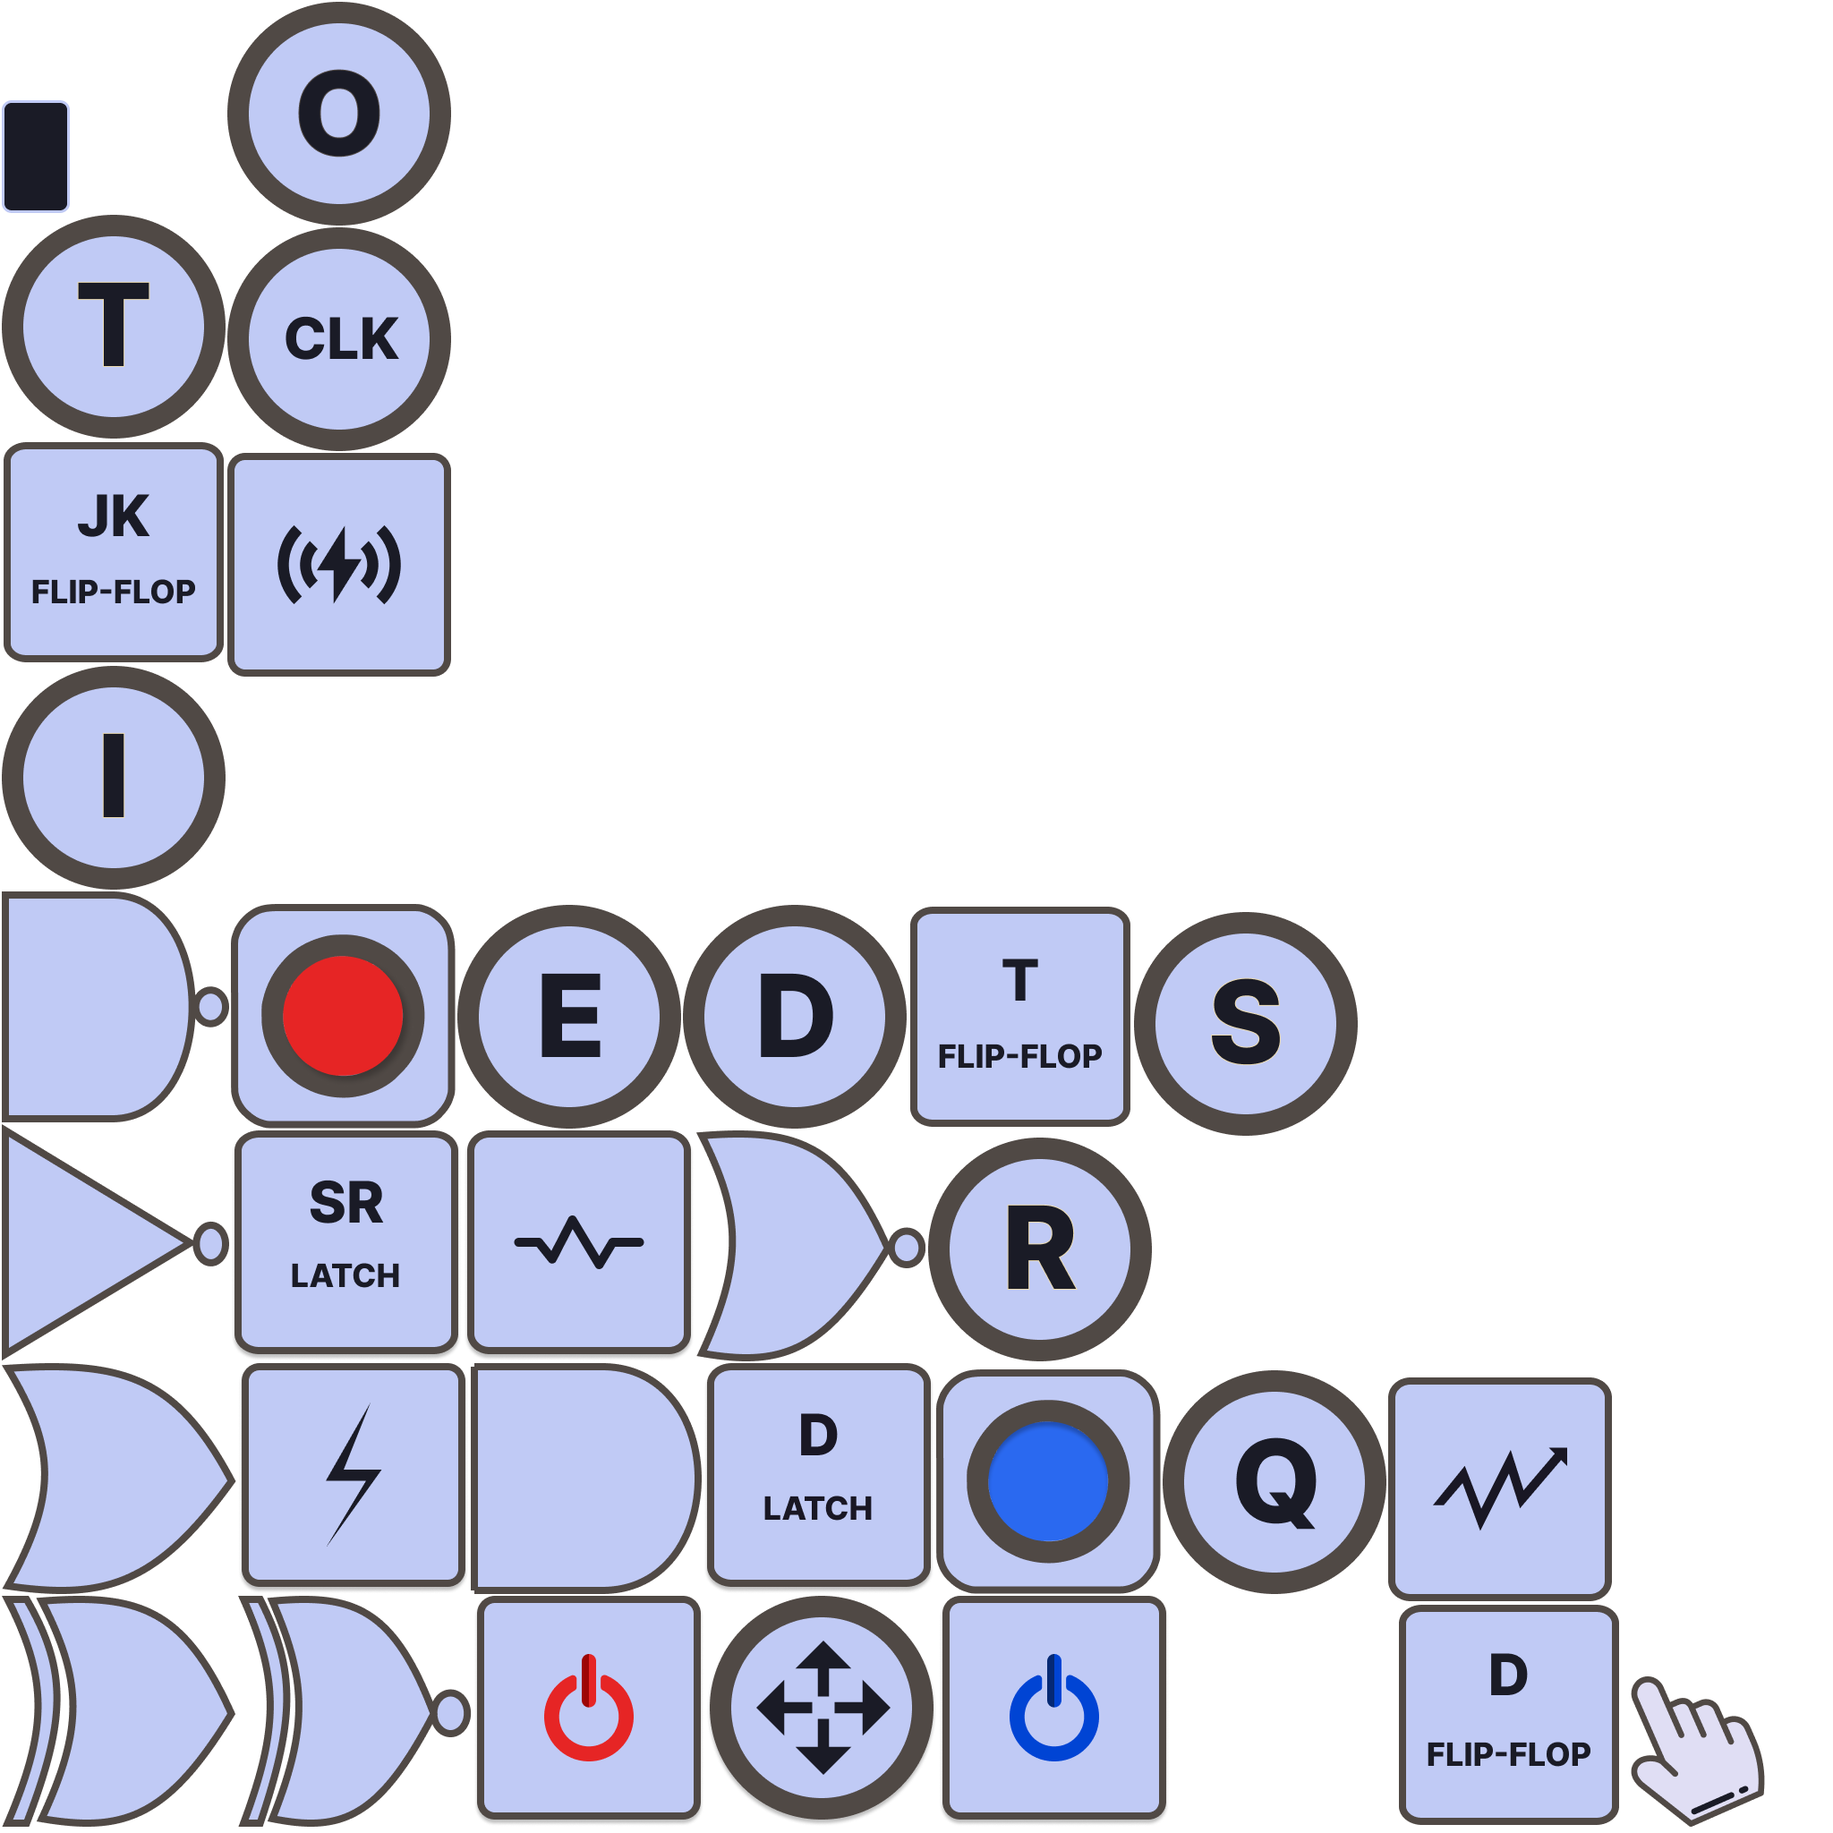
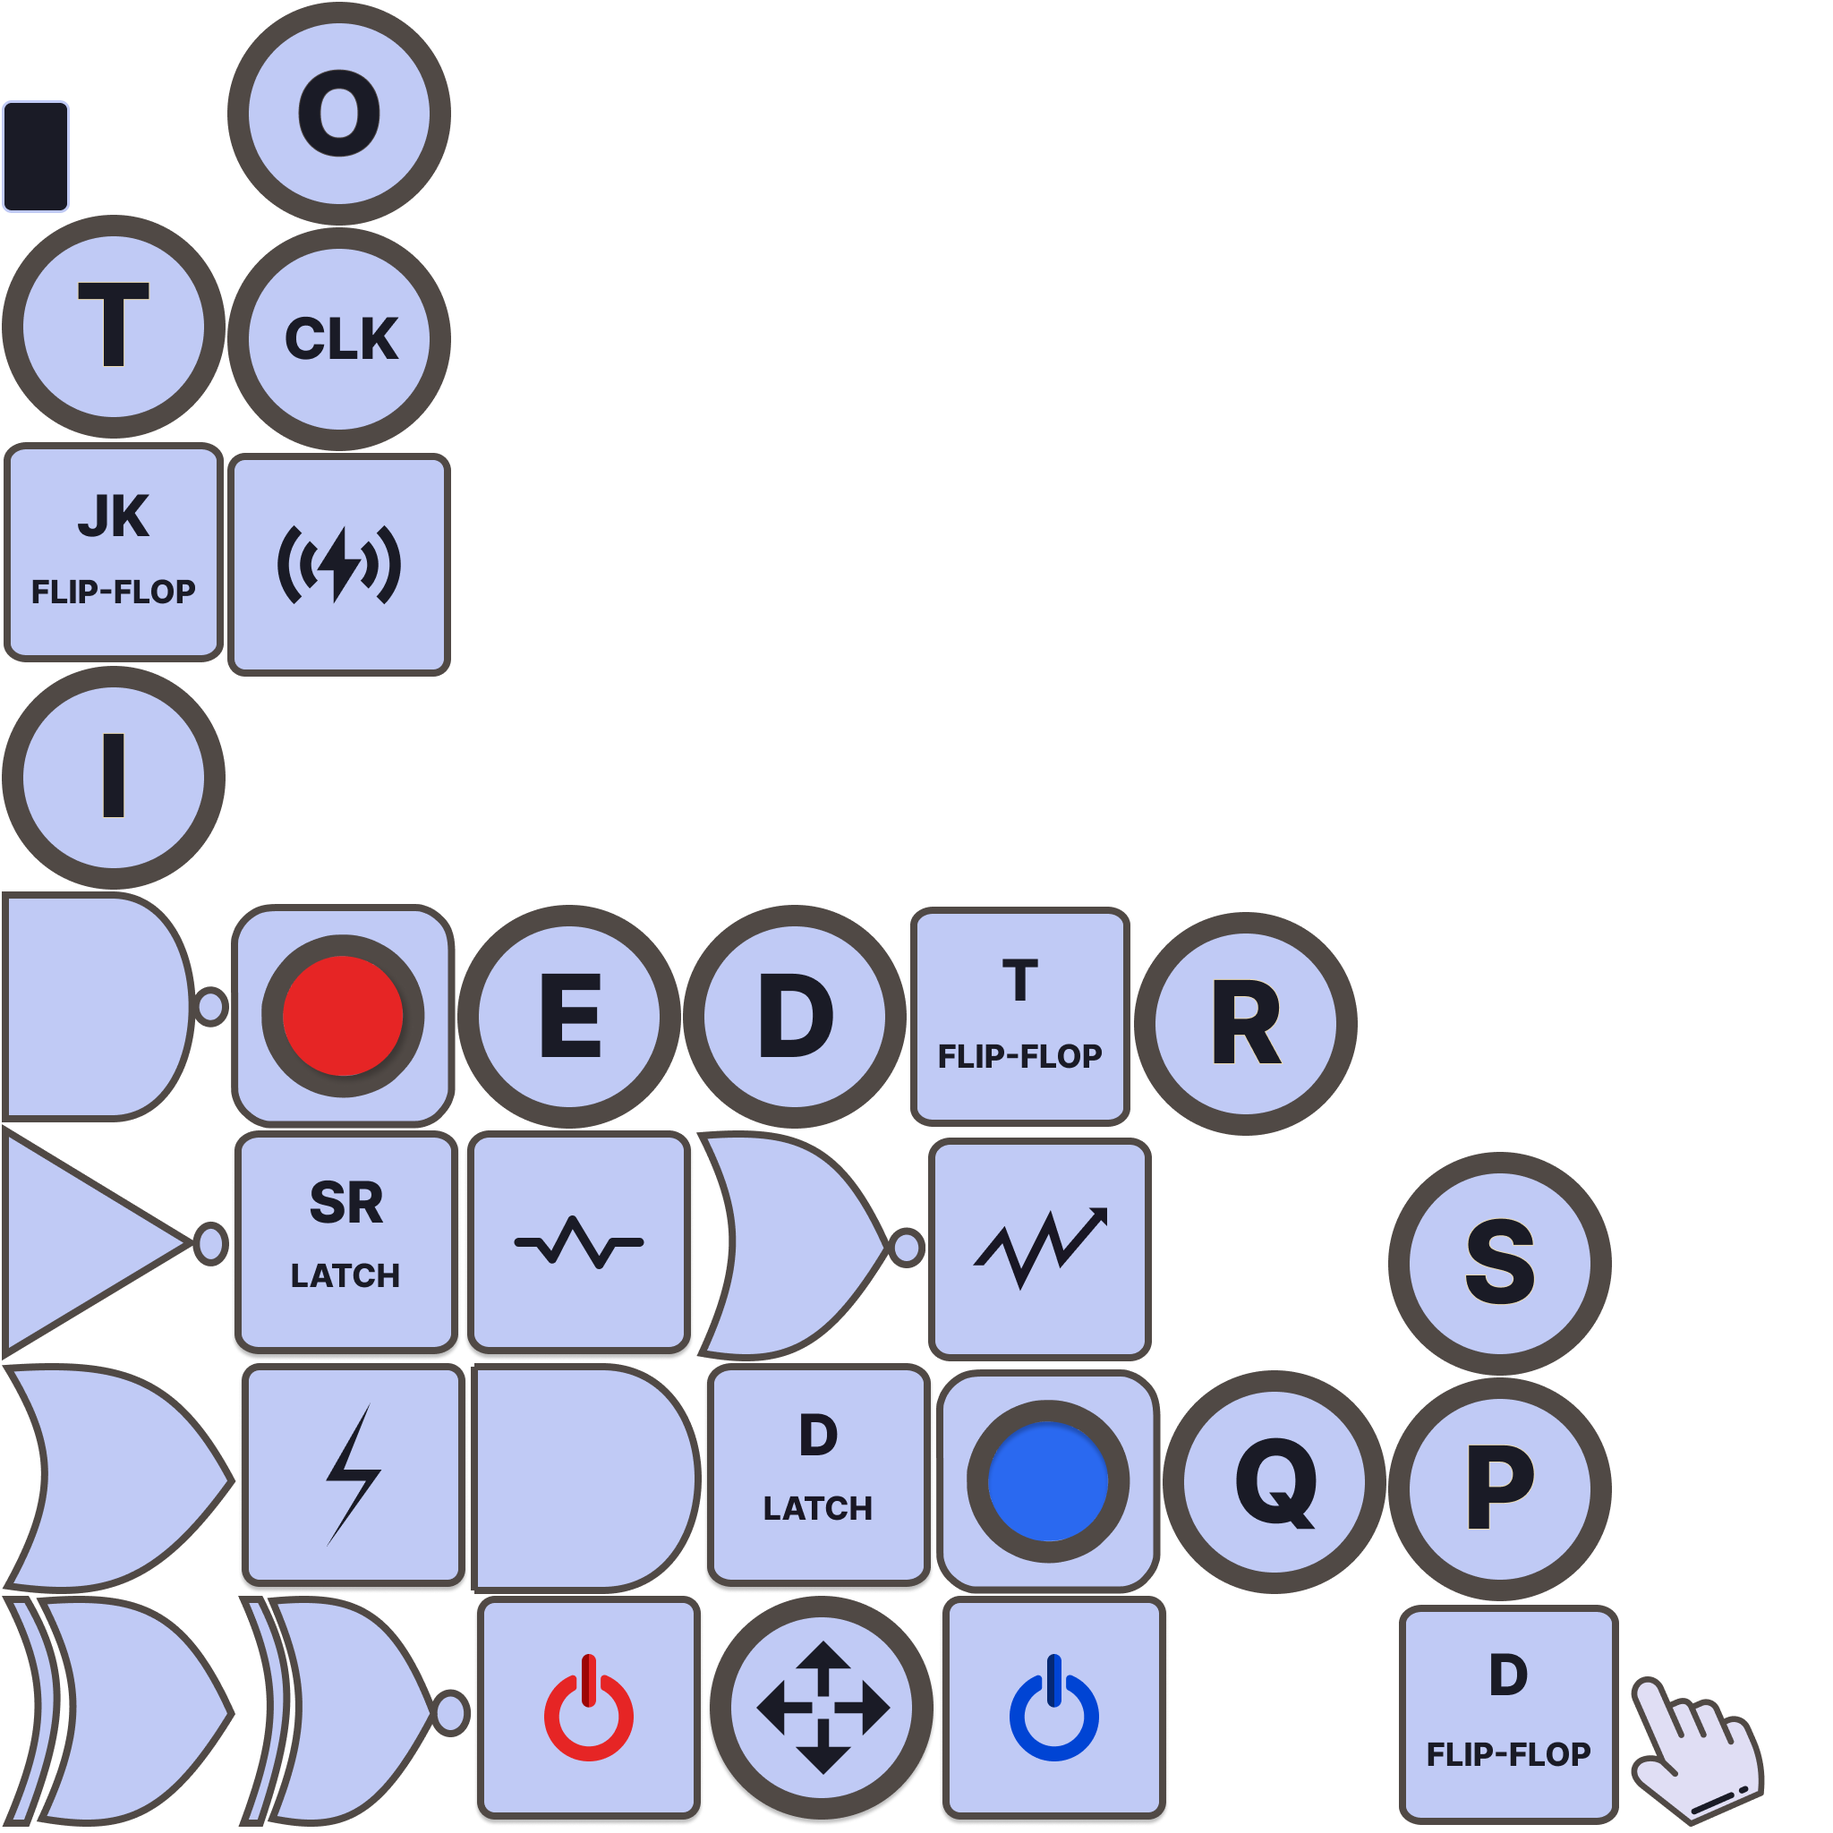
added point component

Changed region(s): [[0.75, 0.625, 0.9062, 0.875], [0.5, 0.5938, 0.6562, 0.75], [0.6562, 0.5312, 0.7188, 0.5938]]

diff --git a/android/src/main/java/org/engine/simulogic/android/circuits/components/other/CPoint.kt b/android/src/main/java/org/engine/simulogic/android/circuits/components/other/CPoint.kt
@@ -1,0 +1,198 @@
+package org.engine.simulogic.android.circuits.components.other
+
+import com.badlogic.gdx.graphics.g2d.Sprite
+import com.badlogic.gdx.graphics.g2d.TextureAtlas
+import org.engine.simulogic.android.circuits.theme.EnvironmentTheme
+import com.badlogic.gdx.math.Rectangle
+import org.engine.simulogic.android.circuits.components.CDefaults
+import org.engine.simulogic.android.circuits.components.CNode
+import org.engine.simulogic.android.circuits.components.CTypes
+import org.engine.simulogic.android.circuits.components.gates.CSignal
+import org.engine.simulogic.android.circuits.components.lines.CLine
+import org.engine.simulogic.android.scene.LayerEnums
+import org.engine.simulogic.android.scene.PlayGroundScene
+
+class CPoint(x:Float, y:Float, rotationDirection:Int, private val scene: PlayGroundScene) :CNode(){
+
+    private val lines = mutableListOf<CLine>()
+    constructor(x:Float, y:Float, scene: PlayGroundScene):this(x, y, ROTATE_RIGHT, scene)
+    init {
+
+        val textureAtlas = scene.assetManager.get("${EnvironmentTheme.name}.atlas", TextureAtlas::class.java)
+        val spriteRegion = textureAtlas.findRegion("POINT")
+        type = CTypes.NOT
+        this.rotationDirection = rotationDirection
+        sprite = Sprite(spriteRegion).apply {
+            setOrigin(x , y)
+            setSize(CDefaults.gateWidth, CDefaults.gateHeight)
+            setOriginCenter()
+            when(rotationDirection){
+                ROTATE_BOTTOM->{
+                    rotation = 270f
+                }
+                ROTATE_TOP->{
+                    rotation = 90f
+                }
+                ROTATE_LEFT->{
+                    rotation = 180f
+                }
+                ROTATE_RIGHT->{
+                    rotation = 0f
+                }
+            }
+            setPosition(x - CDefaults.gateWidth / 2f,y - CDefaults.gateHeight / 2f)
+        }
+
+        signals.add(CSignal(x + sprite.width * 0.8125f, y ,CTypes.SIGNAL_OUT,0, scene))
+        signals.add(CSignal(x - sprite.width * 0.8125f, y,CTypes.SIGNAL_IN, 1, scene))
+        signals.forEach {
+            attachChild(it)
+        }
+
+        scene.getLayerById(LayerEnums.GATE_LAYER.name).also { layer ->
+            layer.attachChild(this)
+        }
+
+        scene.getLayerById(LayerEnums.CONNECTION_LAYER.name).also { layer->
+            val lineWidth = 2f
+            //output line segment
+            getChildAt(0).getPosition()?.also { outputPosition ->
+                lines.add(CLine(outputPosition.x,outputPosition.y,getPosition().x,getPosition().y,lineWidth))
+            }
+            //input line segments
+            getChildAt(1).getPosition()?.also { outputPosition ->
+                lines.add(CLine(outputPosition.x,outputPosition.y,getPosition().x,outputPosition.y,lineWidth))
+            }
+            lines.forEach {
+                layer.attachChild(it)
+            }
+        }
+    }
+
+
+    override fun attachSelf() {
+        super.attachSelf()
+        scene.getLayerById(LayerEnums.CONNECTION_LAYER.name).also { layer ->
+            lines.forEach {
+                it.isRemoved = false
+                layer.attachChild(it)
+            }
+        }
+        scene.getLayerById(LayerEnums.GATE_LAYER.name).also { layer ->
+            signals.forEach {
+                it.isRemoved = false
+                layer.attachChild(it)
+            }
+            layer.attachChild(this)
+        }
+    }
+
+    override fun detachSelf() {
+        super.detachSelf()
+        lines.forEach { it.detachSelf() }
+        signals.forEach { it.detachSelf() }
+    }
+
+    override fun execute() {
+        val output = signals[0]
+        val inputA = signals[1]
+        output.value = inputA.value
+    }
+
+    override fun update() {
+        if(selected){
+            updateColor(CDefaults.GATE_SELECTED_COLOR)
+        }else{
+            updateColor(if(signals[0].value == SIGNAL_ACTIVE) CDefaults.SIGNAL_ACTIVE_COLOR else  CDefaults.GATE_UNSELECTED_COLOR)
+        }
+        when(rotationDirection){
+            ROTATE_RIGHT->{
+                signals[0].updatePosition(getPosition().x + sprite.width * 0.8125f, getPosition().y)
+                signals[1].updatePosition(getPosition().x - sprite.width * 0.8125f, getPosition().y)
+                getChildAt(0).getPosition()?.also { outputPosition ->
+                    lines[0].updatePosition(outputPosition.x,outputPosition.y,getPosition().x,getPosition().y)
+                }
+                getChildAt(1).getPosition()?.also { outputPosition ->
+                    lines[1].updatePosition(outputPosition.x,outputPosition.y,getPosition().x,outputPosition.y)
+                }
+            }
+
+            ROTATE_LEFT->{
+                signals[0].updatePosition(getPosition().x - sprite.width * 0.8125f, getPosition().y)
+                signals[1].updatePosition(getPosition().x + sprite.width * 0.8125f, getPosition().y)
+                getChildAt(0).getPosition()?.also { outputPosition ->
+                    lines[0].updatePosition(outputPosition.x,outputPosition.y,getPosition().x,getPosition().y)
+                }
+                getChildAt(1).getPosition()?.also { outputPosition ->
+                    lines[1].updatePosition(outputPosition.x,outputPosition.y,getPosition().x,outputPosition.y)
+                }
+            }
+
+            ROTATE_TOP->{
+                signals[0].updatePosition(getPosition().x , getPosition().y + sprite.width * 0.8125f)
+                signals[1].updatePosition(getPosition().x , getPosition().y - sprite.width * 0.8125f)
+                getChildAt(0).getPosition()?.also { outputPosition ->
+                    lines[0].updatePosition(outputPosition.x,outputPosition.y,getPosition().x,getPosition().y)
+                }
+                getChildAt(1).getPosition()?.also { outputPosition ->
+                    lines[1].updatePosition(outputPosition.x,outputPosition.y,outputPosition.x,getPosition().y)
+                }
+            }
+
+            ROTATE_BOTTOM->{
+                signals[0].updatePosition(getPosition().x , getPosition().y - sprite.width * 0.8125f)
+                signals[1].updatePosition(getPosition().x , getPosition().y + sprite.width * 0.8125f)
+                getChildAt(0).getPosition()?.also { outputPosition ->
+                    lines[0].updatePosition(outputPosition.x,outputPosition.y,getPosition().x,getPosition().y)
+                }
+                getChildAt(1).getPosition()?.also { outputPosition ->
+                    lines[1].updatePosition(outputPosition.x,outputPosition.y,outputPosition.x,getPosition().y)
+                }
+            }
+        }
+        data.forEach {
+            it.update()
+        }
+    }
+
+    override fun contains(entity: CNode): CNode? {
+        val parentCollides = super.contains(entity)
+        if(parentCollides != null){
+            return parentCollides
+        }
+        data.forEach {
+            if(it is CNode){
+                val childCollides = it.contains(entity)
+                if(childCollides != null){
+                    return childCollides
+                }
+            }
+        }
+        return null
+    }
+
+    override fun contains(rect: Rectangle): CNode? {
+        val parentCollides = super.contains(rect)
+        if(parentCollides != null){
+            return parentCollides
+        }
+        data.forEach {
+            if(it is CNode){
+                val childCollides = it.contains(rect)
+                if(childCollides != null){
+                    return childCollides
+                }
+            }
+        }
+        return null
+    }
+
+    override fun contains(x: Float, y: Float): CNode? {
+        return super.contains(x, y)
+    }
+
+    override fun clone():CNode {
+        return CPoint(getPosition().x,getPosition().y, rotationDirection, scene )
+    }
+
+}

diff --git a/android/src/main/java/org/engine/simulogic/android/circuits/logic/ComponentManager.kt b/android/src/main/java/org/engine/simulogic/android/circuits/logic/ComponentManager.kt
@@ -45,6 +45,7 @@ import org.engine.simulogic.android.circuits.logic.events.EventNorCommand
 import org.engine.simulogic.android.circuits.logic.events.EventNotCommand
 import org.engine.simulogic.android.circuits.logic.events.EventOrCommand
 import org.engine.simulogic.android.circuits.logic.events.EventPasteCommand
+import org.engine.simulogic.android.circuits.logic.events.EventPointCommand
 import org.engine.simulogic.android.circuits.logic.events.EventPowerCommand
 import org.engine.simulogic.android.circuits.logic.events.EventPulseButtonCommand
 import org.engine.simulogic.android.circuits.logic.events.EventRandomCommand
@@ -217,6 +218,13 @@ class ComponentManager(private val projectOptions: ProjectOptions,private val fo
         gestureListener.rectPointer.getPosition().also { position ->
             snapAlign.getSnapCoordinates(position).also { coordinates ->
                 eventBridge.insertCommand(EventJKFlipFlopCommand(Vector2(coordinates),connection, gestureListener.commandHistory, scene))
+            }
+        }
+    }
+    fun insertPoint() {
+        gestureListener.rectPointer.getPosition().also { position ->
+            snapAlign.getSnapCoordinates(position).also { coordinates ->
+                eventBridge.insertCommand(EventPointCommand(Vector2(coordinates),connection,gestureListener.commandHistory,scene))
             }
         }
     }

diff --git a/android/src/main/java/org/engine/simulogic/android/views/ComponentBottomSheet.kt b/android/src/main/java/org/engine/simulogic/android/views/ComponentBottomSheet.kt
@@ -41,6 +41,7 @@ class ComponentBottomSheet(private val listener: IComponentAdapterListener? = nu
          const val D_FLIP_FLOP_COMPONENT = "D-FLIP-FLOP"
          const val JK_FLIP_FLOP_COMPONENT = "JK-FLIP-FLOP"
          const val T_FLIP_FLOP_COMPONENT = "T-FLIP-FLOP"
+         const val POINT_COMPONENT = "POINT"
          const val LED_COMPONENT = "LED"
          const val POWER_ON_COMPONENT = "POWER ON"
          const val POWER_OFF_COMPONENT = "POWER OFF"
@@ -116,6 +117,7 @@ class ComponentBottomSheet(private val listener: IComponentAdapterListener? = nu
         generalAdapter.insert(POWER_ON_COMPONENT, R.drawable.power_on)
         generalAdapter.insert(POWER_OFF_COMPONENT, R.drawable.power_off)
         generalAdapter.insert(PULSE_BUTTON_COMPONENT, R.drawable.pulse_button_off,isPremium = true)
+        generalAdapter.insert(POINT_COMPONENT, R.drawable.point_component)
         generalAdapter.insert(RANDOM_COMPONENT, R.drawable.random)
         generalAdapter.insert(TEXT_COMPONENT, R.drawable.text)
         generalAdapter.insert(DATA_BUS_COMPONENT, R.drawable.data_bus)

diff --git a/android/src/main/java/org/engine/simulogic/android/circuits/logic/events/EventPointCommand.kt b/android/src/main/java/org/engine/simulogic/android/circuits/logic/events/EventPointCommand.kt
@@ -1,0 +1,22 @@
+package org.engine.simulogic.android.circuits.logic.events
+import com.badlogic.gdx.math.Vector2
+import org.engine.simulogic.android.circuits.components.other.CPoint
+import org.engine.simulogic.android.circuits.logic.Connection
+import org.engine.simulogic.android.circuits.logic.ListNode
+import org.engine.simulogic.android.circuits.tools.Command
+import org.engine.simulogic.android.circuits.tools.CommandHistory
+import org.engine.simulogic.android.circuits.tools.InsertCommand
+import org.engine.simulogic.android.scene.PlayGroundScene
+
+class EventPointCommand (private val position: Vector2,
+                       private val connection: Connection,
+                       private val commandHistory: CommandHistory,
+                       private val scene: PlayGroundScene) : Command(){
+
+    override fun execute() {
+        ListNode(CPoint(position.x, position.y, scene)).also{ node->
+            connection.insertNode(node)
+            commandHistory.execute(InsertCommand(node, connection))
+        }
+    }
+}

diff --git a/android/src/main/java/org/engine/simulogic/android/circuits/storage/DataTransferObject.kt b/android/src/main/java/org/engine/simulogic/android/circuits/storage/DataTransferObject.kt
@@ -29,6 +29,7 @@ import org.engine.simulogic.android.circuits.components.latches.CSRLatch
 import org.engine.simulogic.android.circuits.components.lines.LineMarker
 import org.engine.simulogic.android.circuits.components.other.CGroup
 import org.engine.simulogic.android.circuits.components.other.CLabel
+import org.engine.simulogic.android.circuits.components.other.CPoint
 import org.engine.simulogic.android.circuits.components.visuals.CBCDDisplay
 import org.engine.simulogic.android.circuits.components.visuals.CLed
 import org.engine.simulogic.android.circuits.components.visuals.CSevenSegmentDisplay
@@ -356,6 +357,10 @@ class DataTransferObject {
 
                     CTypes.T_FLIP_FLOP -> {
                         connection.insertNode(ListNode(CTFlipFlop(x, y, rotation, scene)))
+                    }
+
+                    CTypes.POINT -> {
+                        connection.insertNode(ListNode(CPoint(x, y, rotation, scene)))
                     }
 
                     CTypes.CLOCK -> {

diff --git a/android/src/main/java/org/engine/simulogic/android/views/SimulationFragment.kt b/android/src/main/java/org/engine/simulogic/android/views/SimulationFragment.kt
@@ -286,6 +286,10 @@ class SimulationFragment : AndroidFragmentApplication() {
                     simulationLoop.componentManager.insertCTFlipFlop()
                 }
 
+                ComponentBottomSheet.POINT_COMPONENT -> {
+                    simulationLoop.componentManager.insertPoint()
+                }
+
                 ComponentBottomSheet.LED_COMPONENT -> {
                     simulationLoop.componentManager.insertCLed()
                 }

diff --git a/android/src/main/java/org/engine/simulogic/android/circuits/components/CTypes.kt b/android/src/main/java/org/engine/simulogic/android/circuits/components/CTypes.kt
@@ -13,6 +13,7 @@ enum class CTypes {
     FLIP_FLOP,
     T_FLIP_FLOP,
     JK_FLIP_FLOP,
+    POINT,
     WIRE,
     RANDOM,
     LED,
